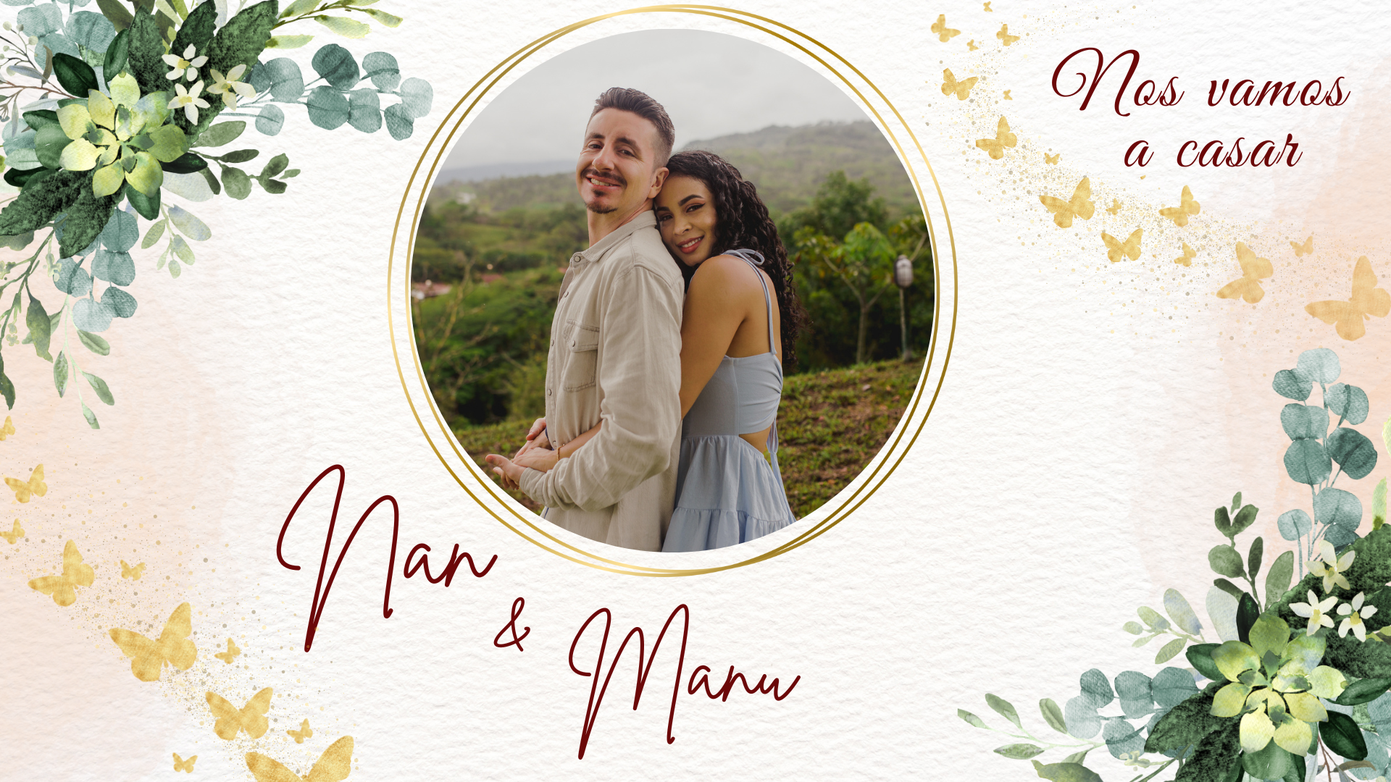
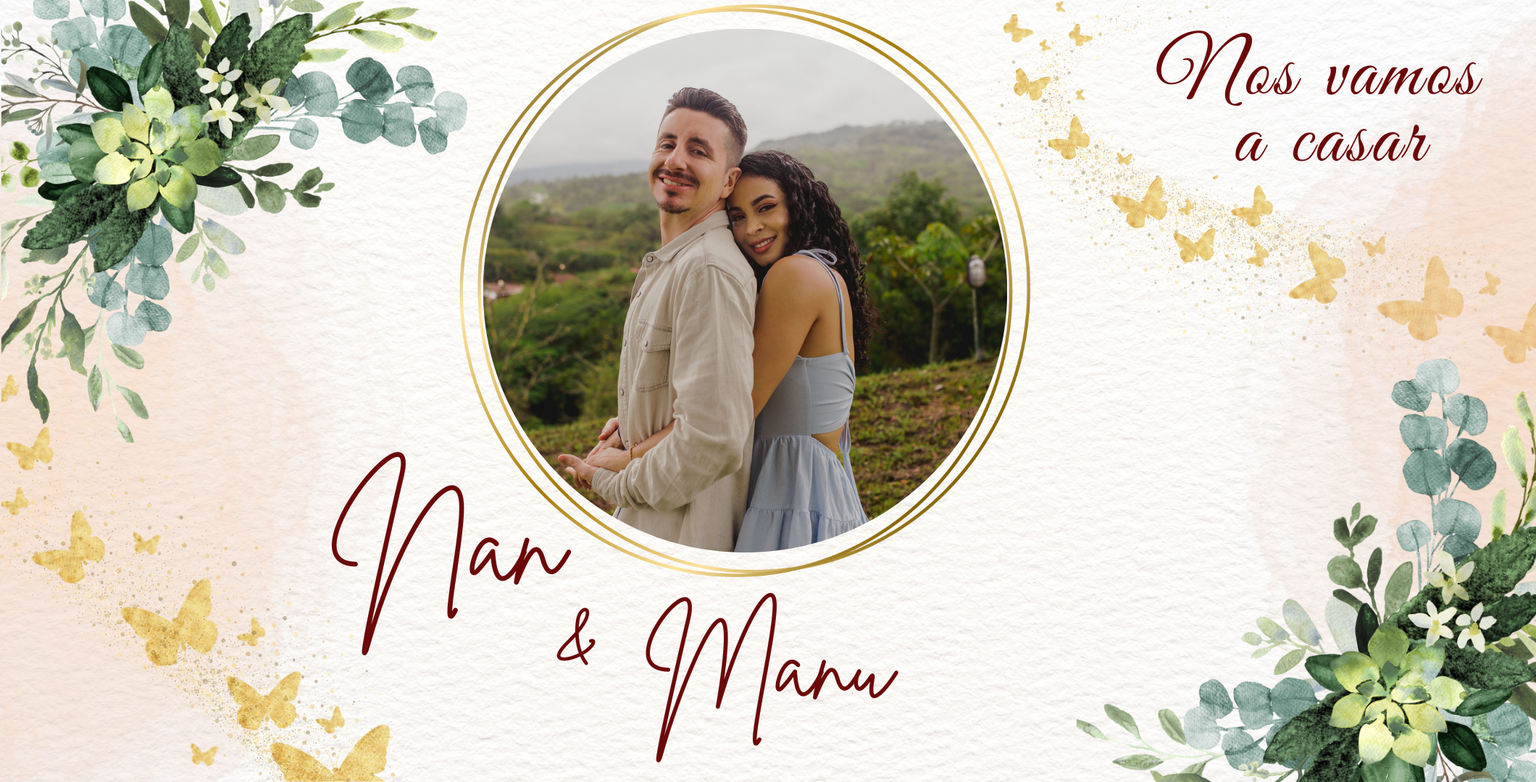
Actualiza portada

Changed region(s): [[0.0, 0.0, 1.0, 1.0], [0.3438, 0.7639, 0.5938, 0.9778]]

diff --git a/css/style.css b/css/style.css
@@ -9775,10 +9775,12 @@ a.text-dark:hover, a.text-dark:focus {
 }
 
 .bg-info-evento {
-  background:  url(../img/info-evento.png), no-repeat center center;
-  background-size: cover;
-  height: 19rem !important;
-  margin-bottom: 2rem;
+  background-size: 85% 85%;
+  height: 20vw !important;
+  /* width: 123%; */
+  background-image: url(../img/info-evento.png);
+  background-repeat: no-repeat;
+  background-position: center top;
 }
 
 @media (max-width: 1200px) {
